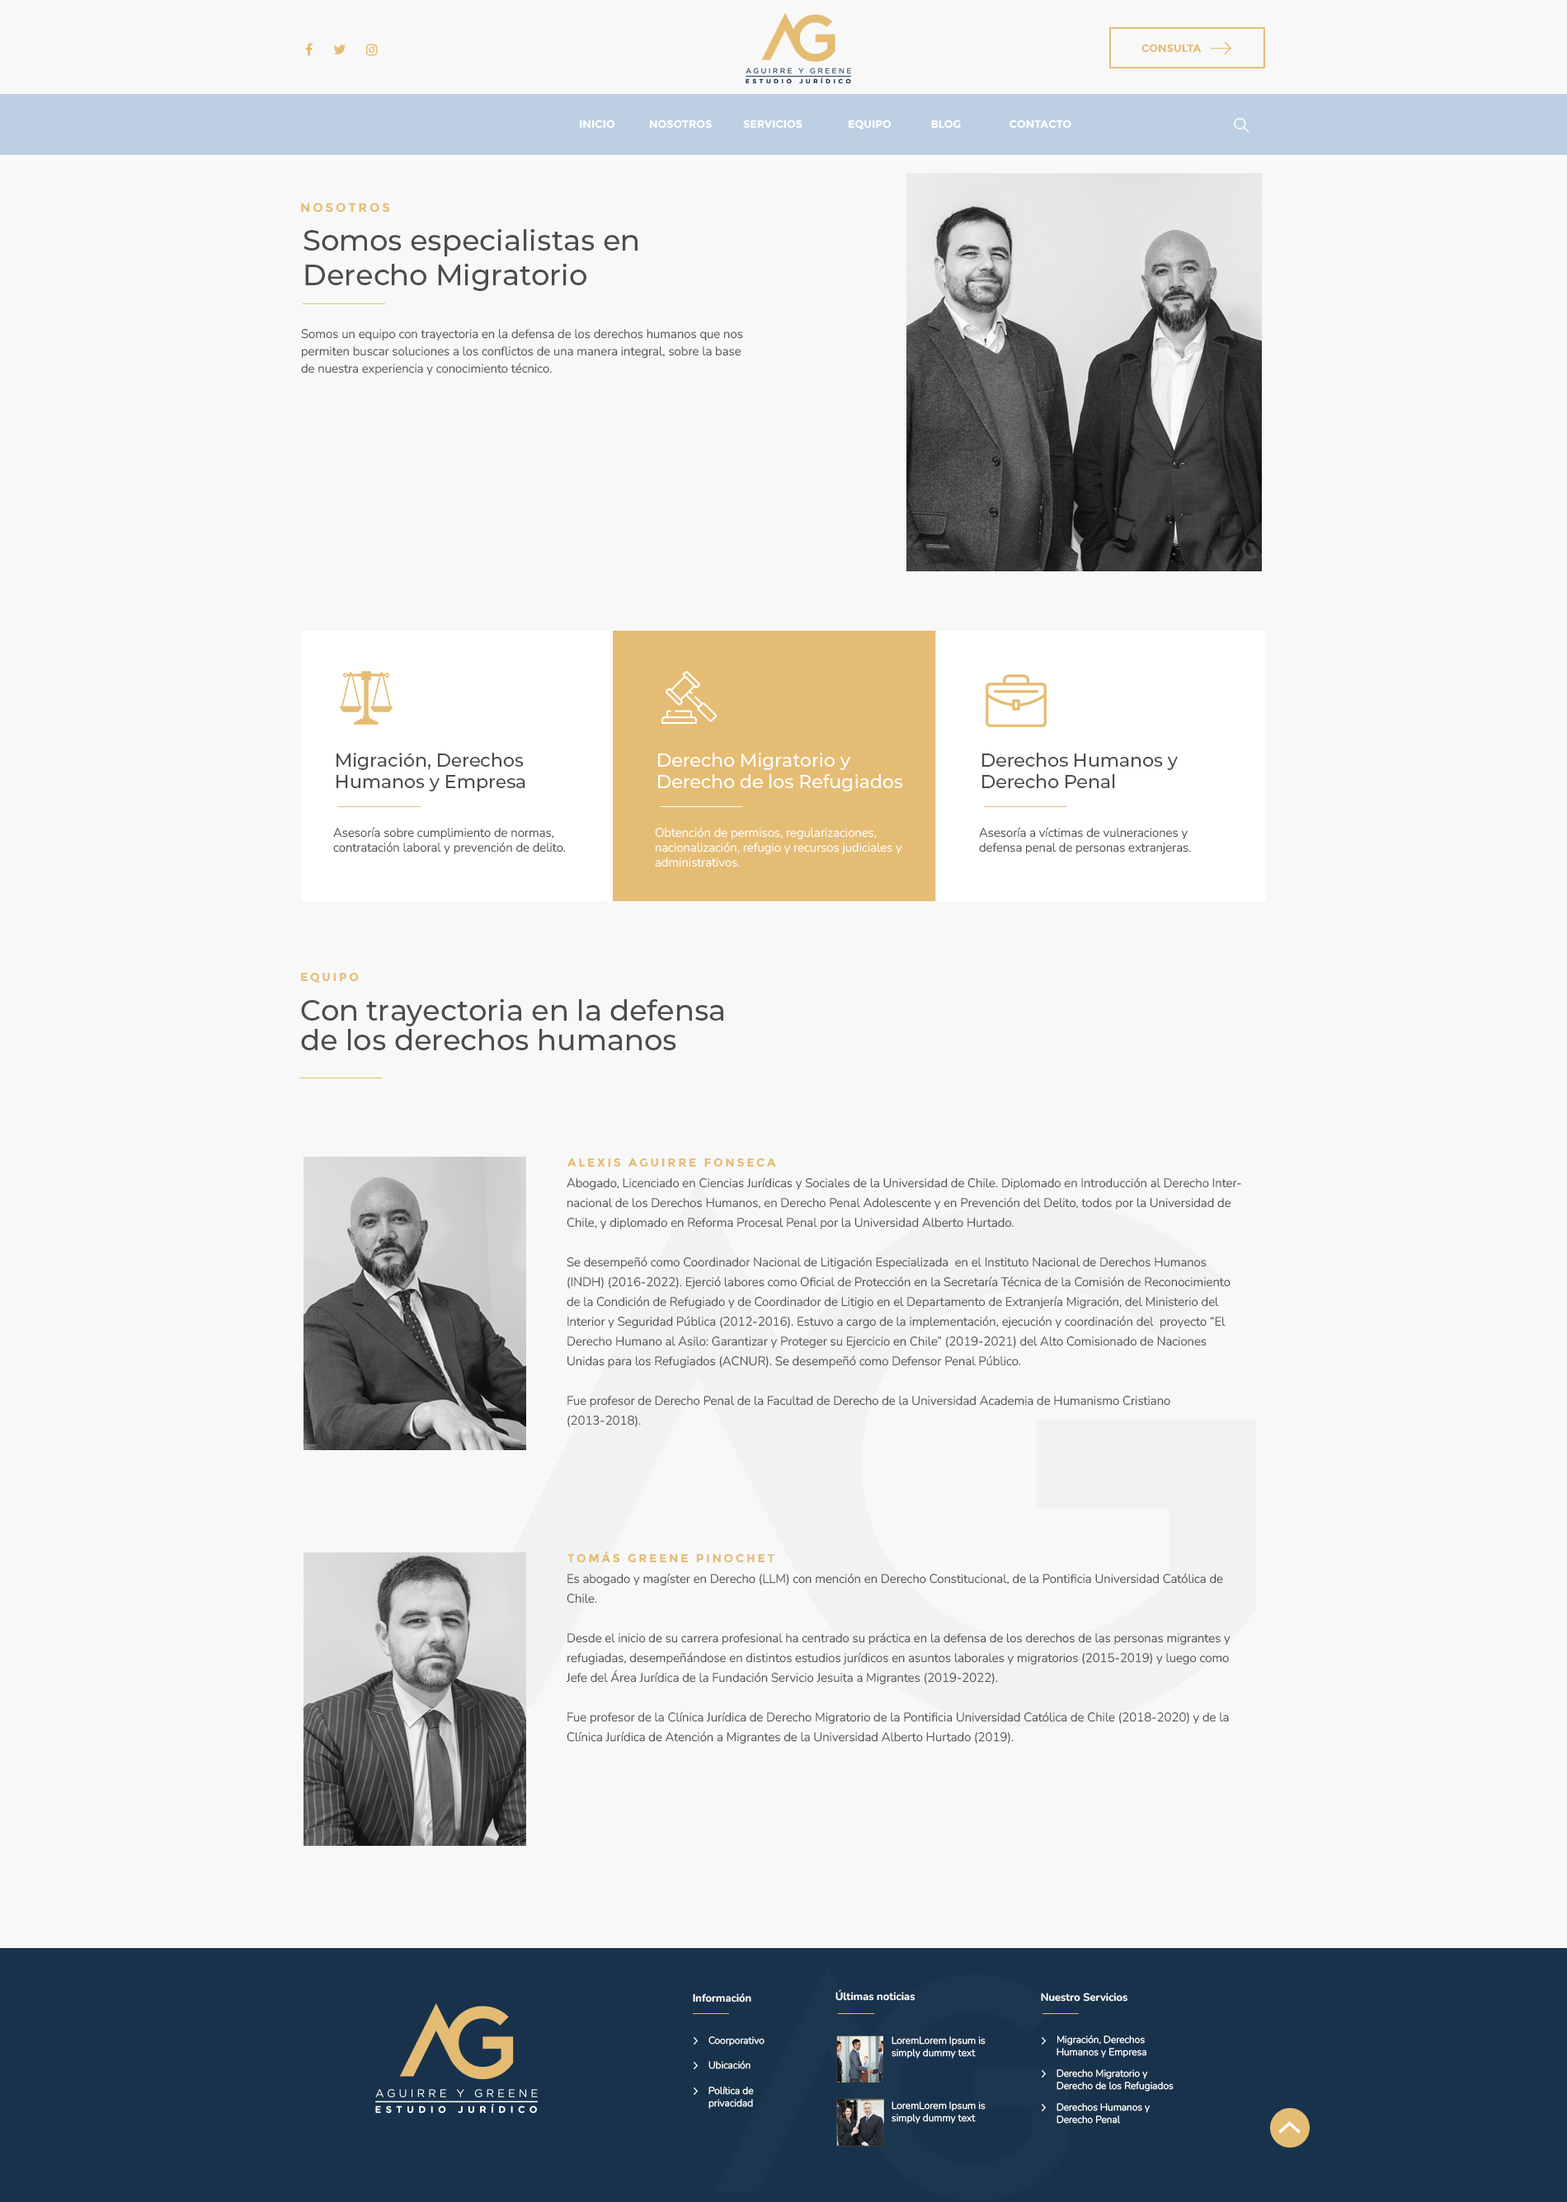
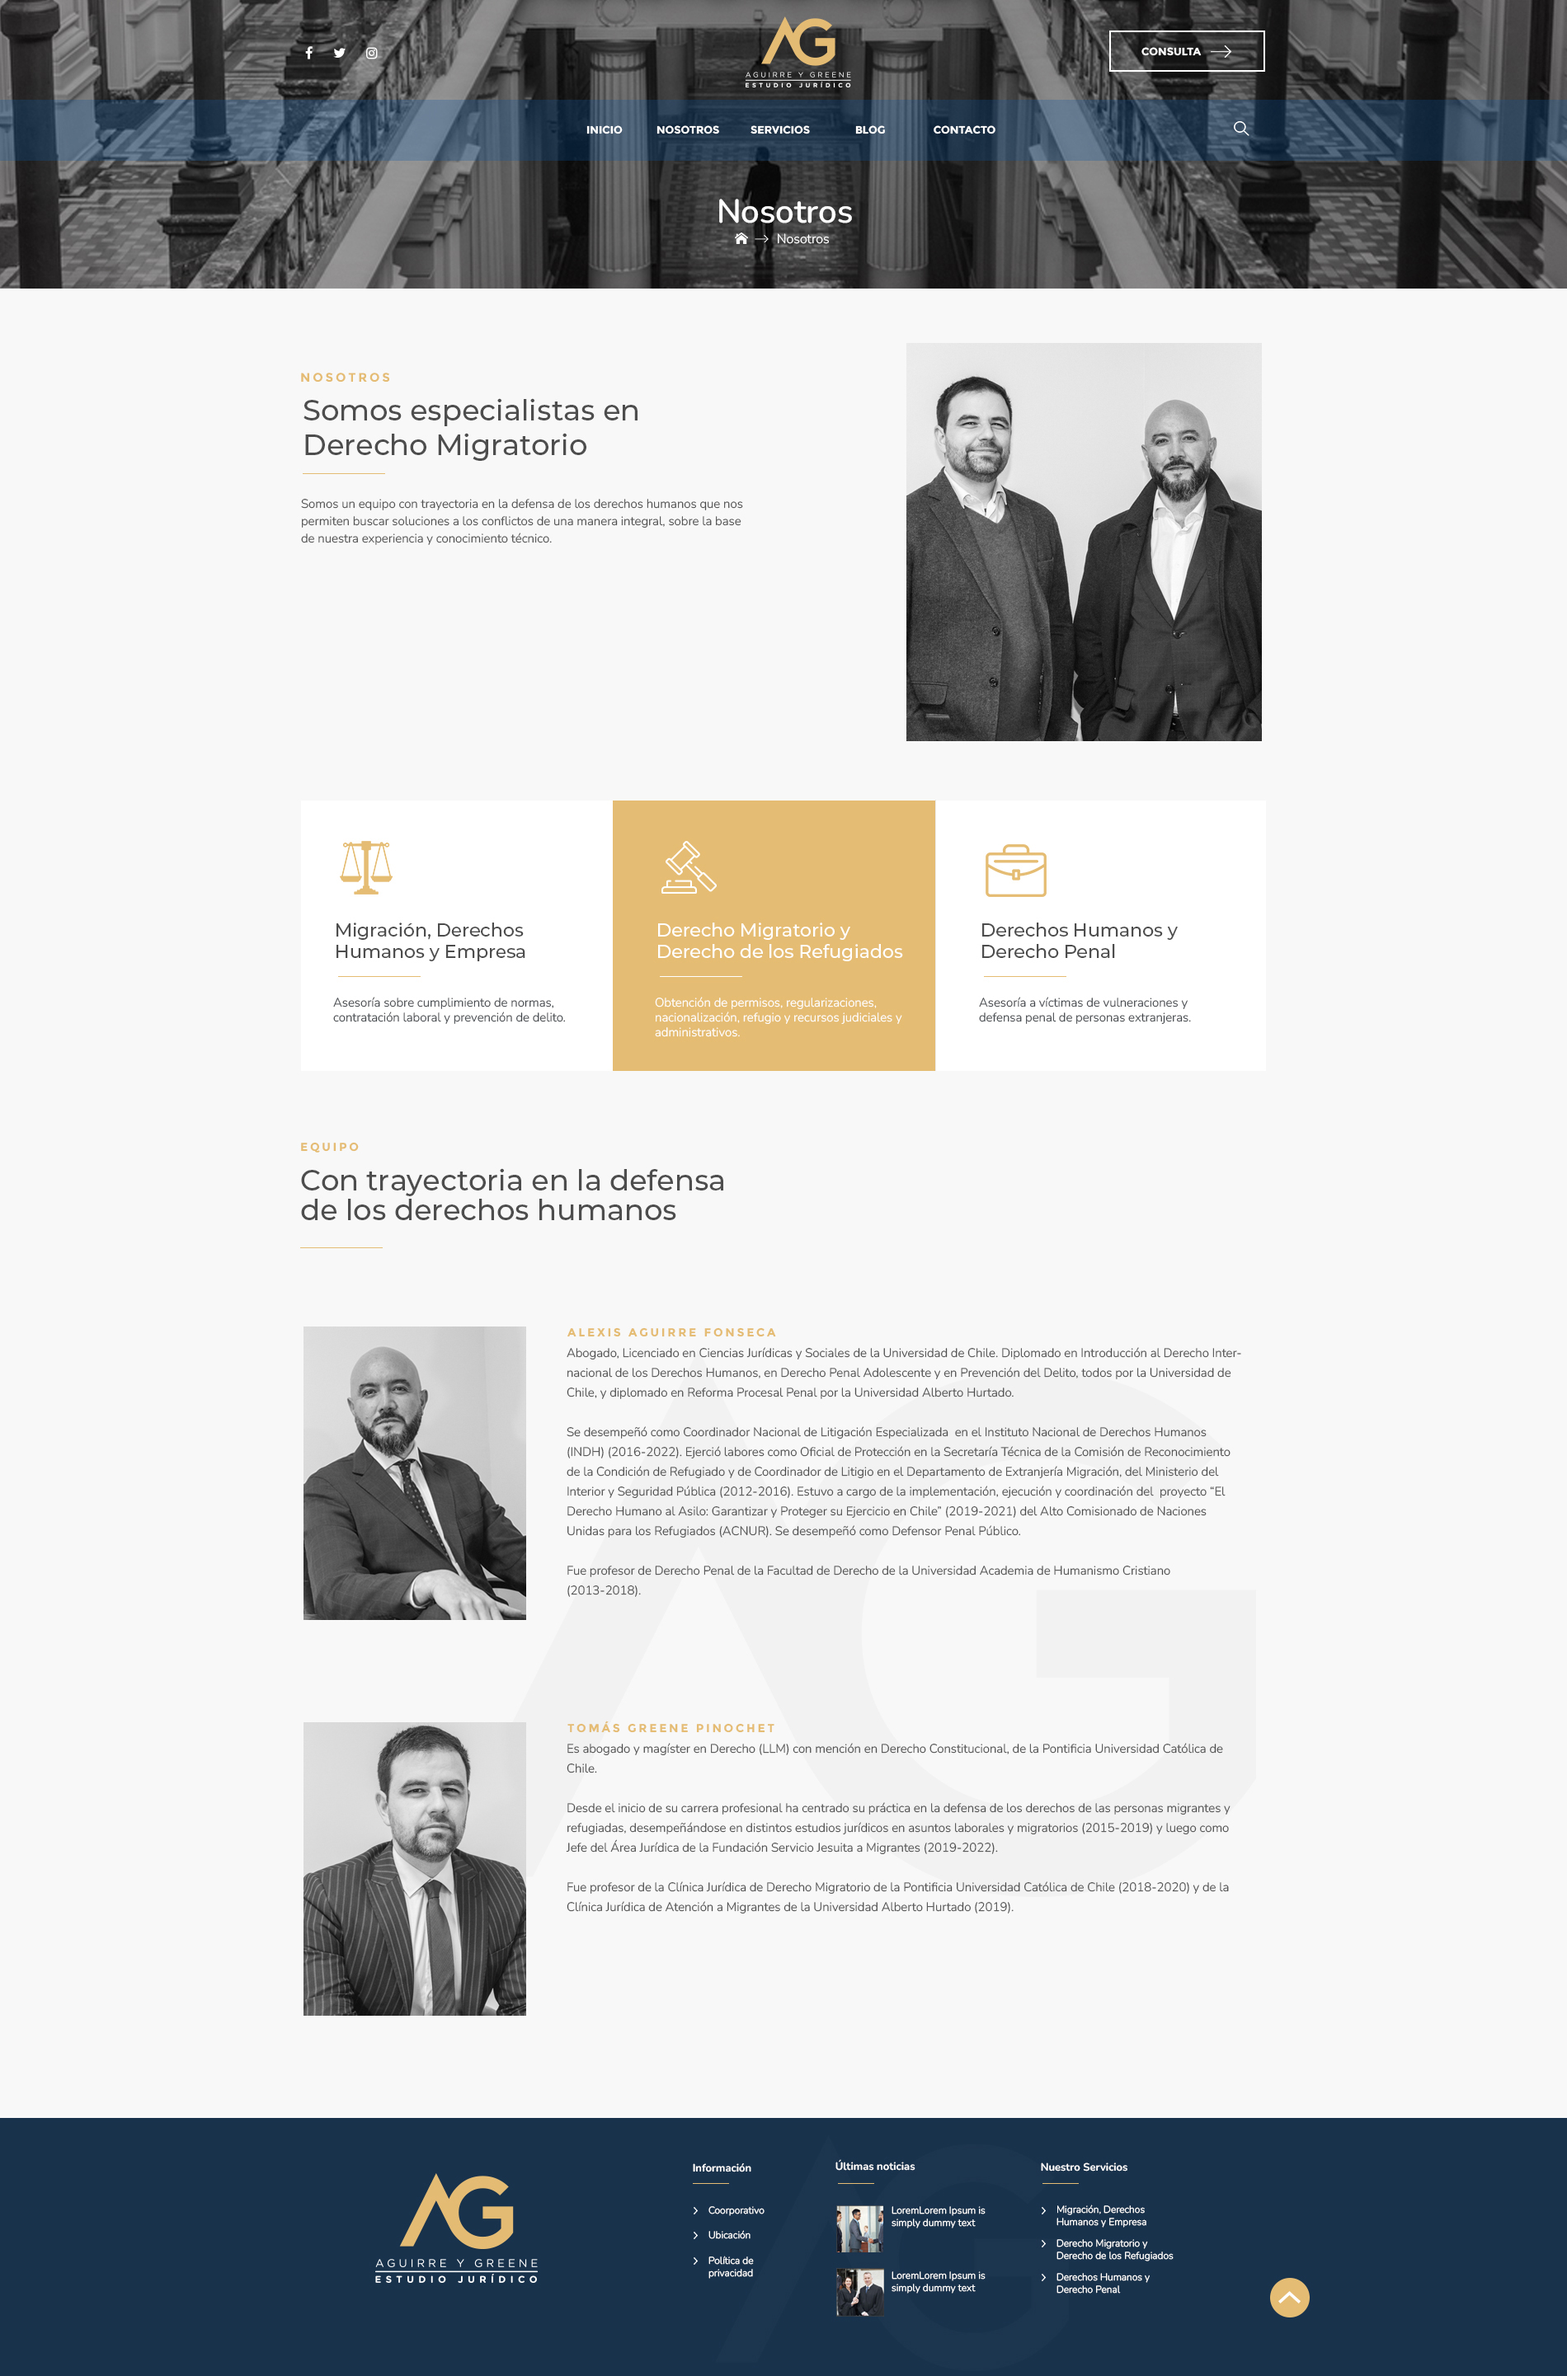
actualizacion de imagen demo sobre nosotros

Changed region(s): [[0.0, 0.0, 1.0, 0.9633], [0.3726, 0.7147, 0.7763, 0.8079]]

diff --git a/style.css b/style.css
@@ -83,7 +83,7 @@
   background-image: url('img/about-us/sobre-nosotros_mobile.jpg');
   background-position: top center;
   background-repeat: no-repeat;
-  height: 5038px;
+  height: 5201px;
   margin: 0;
   padding: 0;
 }
@@ -127,7 +127,7 @@
 
   .about-us {
     background-image: url('img/about-us/sobre-nosotros_desktop.jpg');
-    height: 2671px;
+    height: 2882px;
   }
 
 }
